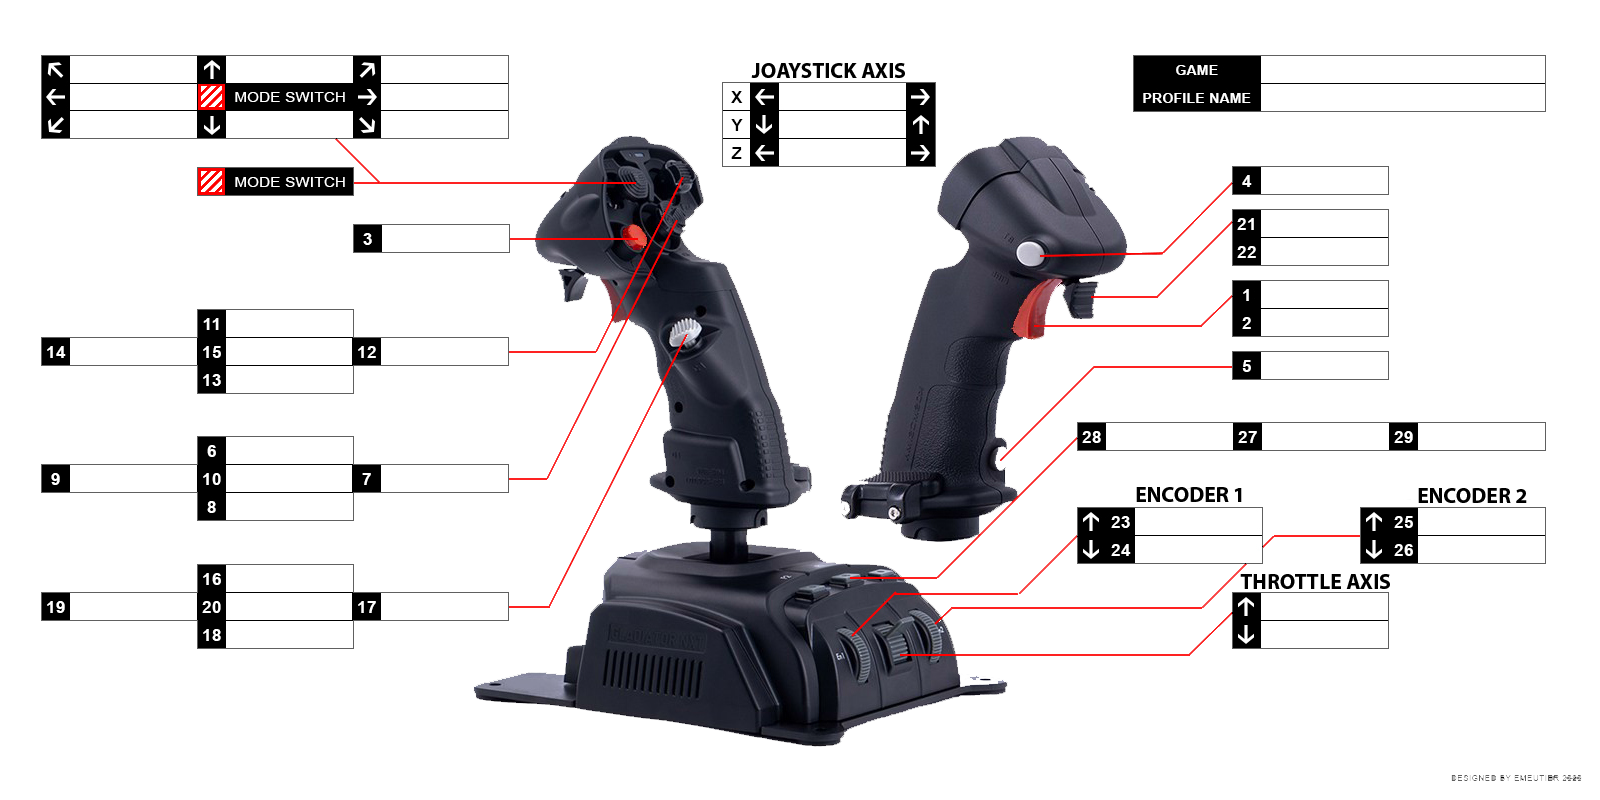
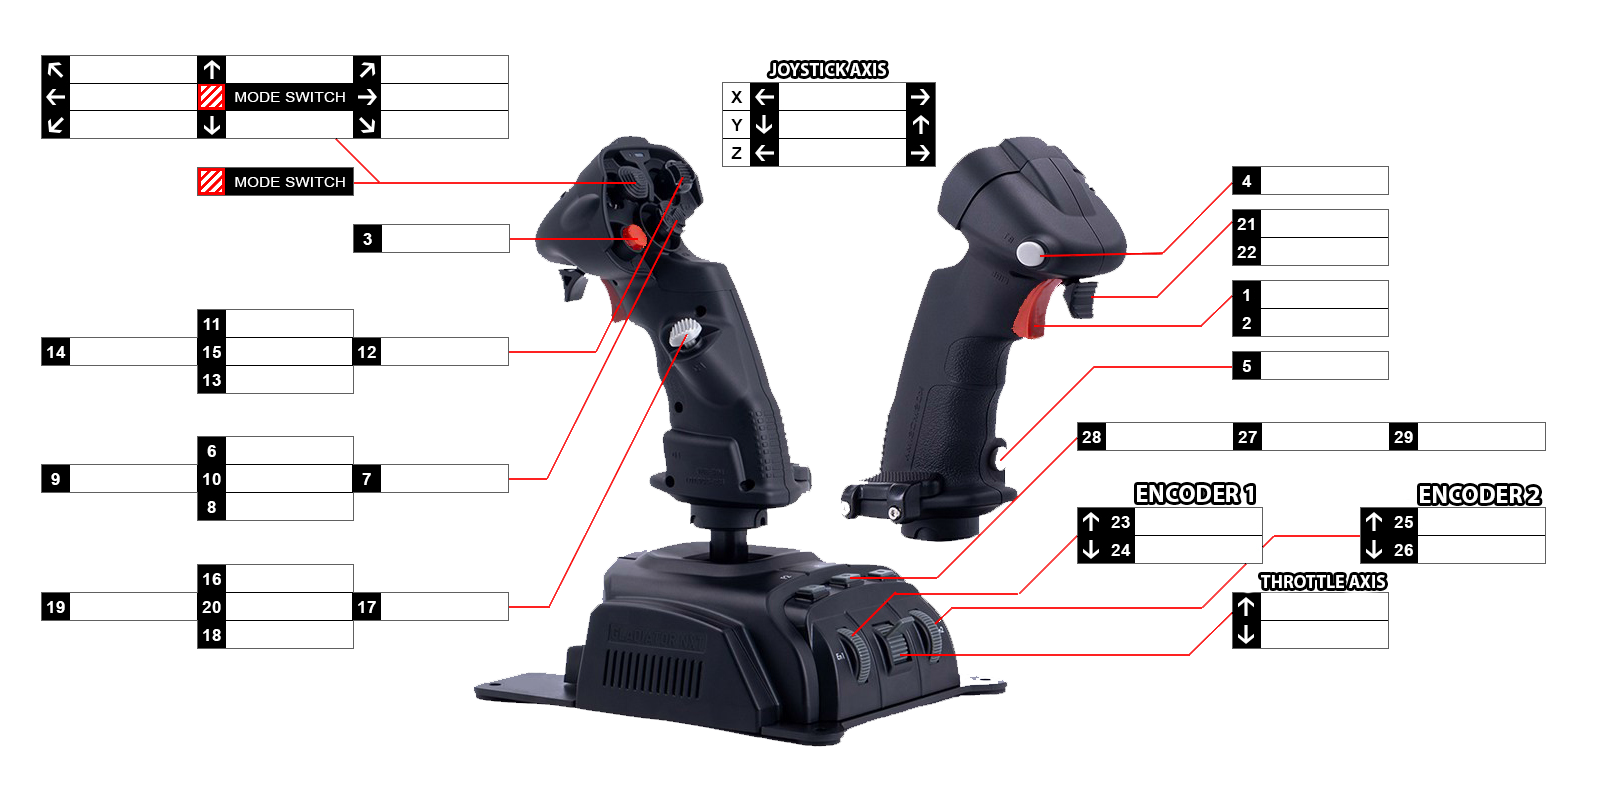
v0.7.42: VKB NXT PREM L+R — Feld-Nummern in Weiß statt Schwarz
Bessere Lesbarkeit der Nummern auf dem dunklen Stick-Bild.

diff --git a/index.html b/index.html
@@ -895,9 +895,12 @@
 <div id="statusbar">STATUS: <span id="statmsg">Bereit</span> &nbsp;|&nbsp; Geändert: <span id="changed-count">0</span> &nbsp;|&nbsp; Version: <span id="app-version"></span> &nbsp;|&nbsp; Update: <span id="update-status">prüfen...</span></div>
 
 <script>
-const APP_VERSION = 'v0.7.41';
+const APP_VERSION = 'v0.7.42';
 
 const CHANGELOG_DATA = [
+  { version: 'v0.7.42', date: '2026-06-10', entries: [
+    'VKB NXT PREM L+R: Feld-Nummern jetzt in Weiß statt Schwarz — auf dem dunklen Stick-Bild deutlich besser lesbar'
+  ]},
   { version: 'v0.7.41', date: '2026-06-10', entries: [
     'VKB NXT PREM L+R: Korrigierte Stick-Bilder eingespielt — überarbeitete Vorlagen mit sauberer Beschriftung'
   ]},

diff --git a/ROADMAP.md b/ROADMAP.md
@@ -1,6 +1,6 @@
 # Roadmap
 
-Aktuelle Version: `v0.7.41`
+Aktuelle Version: `v0.7.42`
 
 ## Zielbild
 
@@ -115,3 +115,5 @@ Aktueller Fokus: öffentliche Tests, Feedback sammeln und weitere Stick-Vorlagen
 | v0.7.38 | Versionshistorie als eigener Tab „📄 Versionen" statt im Hilfe-Tab ✓ |
 | v0.7.39 | VKB-Bilder: Pinkliche JPEG-Halos entlang roter Linien entfernt (schärferer Rot-Filter G < 100 & B < 100) ✓ |
 | v0.7.40 | VKB-Bilder: Rote Linien scharf — weiße Artefaktpixel neben roten Linienpixeln kontextbewusst entfernt ✓ |
+| v0.7.41 | VKB NXT PREM L+R: Korrigierte Stick-Bilder mit sauberer Beschriftung eingespielt ✓ |
+| v0.7.42 | VKB NXT PREM L+R: Feld-Nummern in Weiß statt Schwarz (bessere Lesbarkeit auf dunklem Bild) ✓ |

diff --git a/CHANGELOG.md b/CHANGELOG.md
@@ -4,6 +4,12 @@ Alle wichtigen Änderungen an diesem Projekt werden hier dokumentiert.
 
 Das Projekt nutzt SemVer: `MAJOR.MINOR.PATCH`.
 
+## v0.7.42 - 2026-06-10
+
+### Geändert
+
+- VKB NXT PREM L+R: Feld-Nummern auf den Stick-Bildern in Weiß statt Schwarz — auf dem dunklen Stick-Foto deutlich besser lesbar (`vkb-gladiator-nxt-l.png`, `vkb-gladiator-nxt.png`)
+
 ## v0.7.41 - 2026-06-10
 
 ### Geändert
